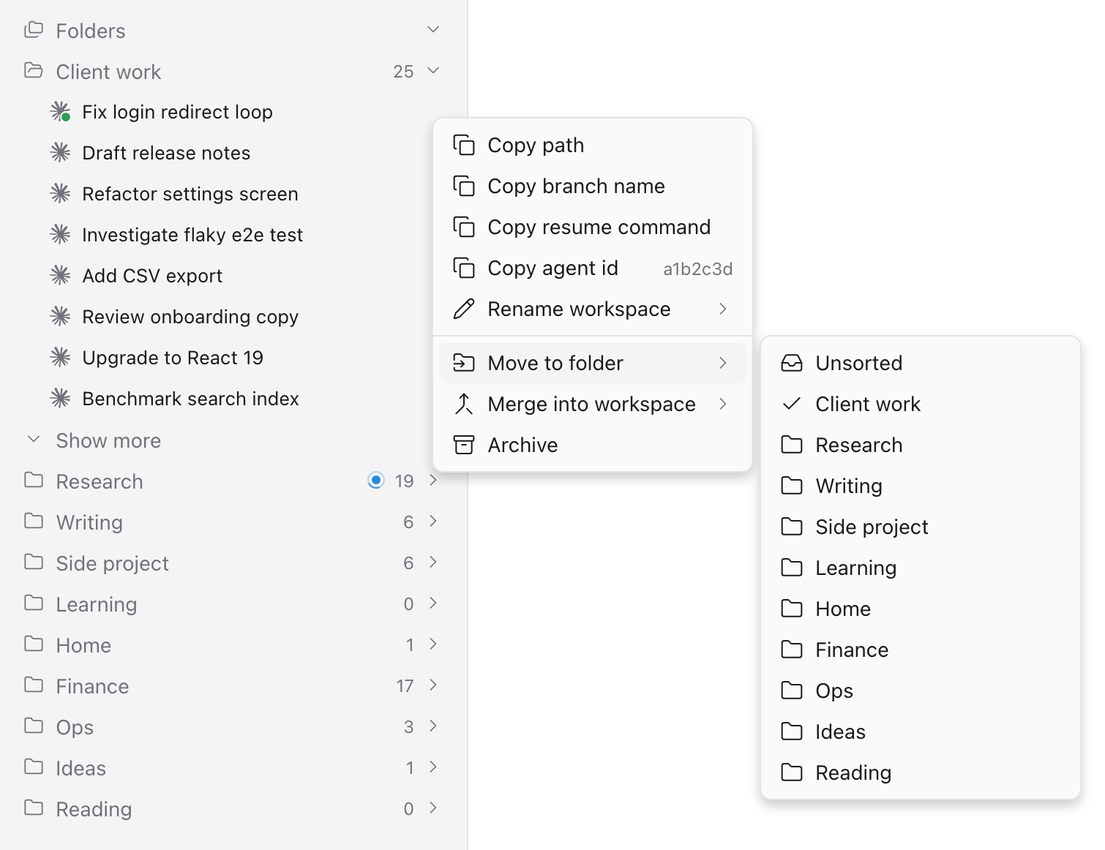
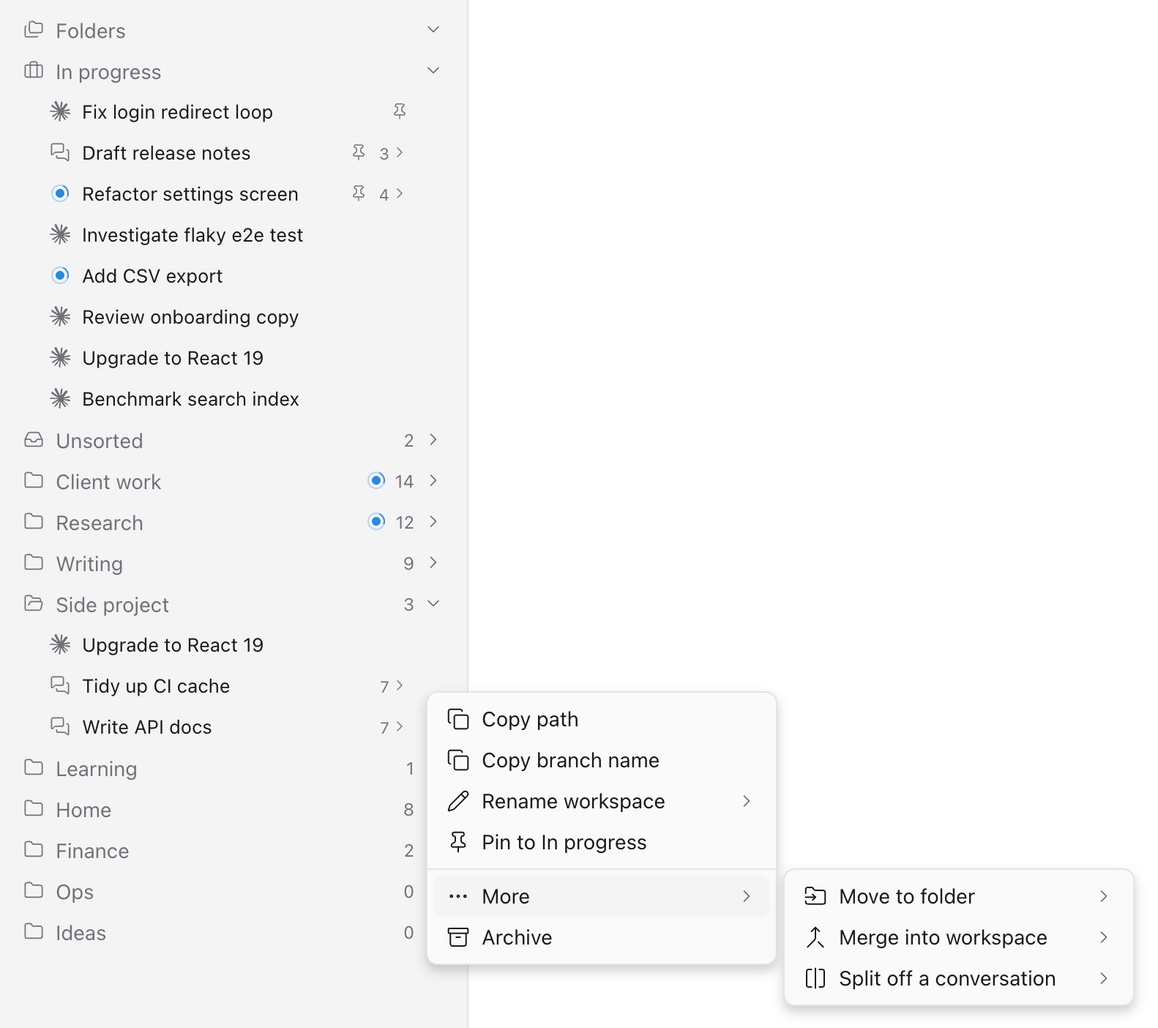
The README opens again with what the plugin does, a few short points and a screenshot, with the details below
The feature list had grown one long bullet at a time; In progress alone ran to
nearly two thousand characters. Now In progress gets its own short point at the
top, the screenshot (made-up names) shows In progress and the More menu, and the
features are grouped under Folders, In progress, Dragging, Menus and the Folders
screen. Merging is described once, in its own section; the two scripts share
one; the settings fields are a table.

Corrected on the way: the settings document is under plugin-settings/paseo-folders,
not an installation ID; besides the suggestions file, the server reads Paseo's
config.json for the daemon's address; pinning and renaming go through the daemon
too. The overview and the manifest follow.

diff --git a/README.md b/README.md
@@ -4,9 +4,10 @@ English | [简体中文](README.zh-CN.md)
 
 A [Paseo](https://paseo.sh) plugin that adds folders to the sidebar, so you can group workspaces by topic, not just by project. It can also merge workspaces and move a conversation to another workspace, which Paseo cannot do yet.
 
-<img src="docs/sidebar.png" width="600" alt="The Folders section at the top of Paseo's sidebar: folders with workspace counts, one folder open, and a workspace's menu showing Move to folder with the list of folders">
+<img src="docs/sidebar.png" width="600" alt="Paseo's sidebar with the Folders section: In progress at the top, folders with workspace counts below it, one folder open, and a workspace's menu with More open on Move to folder, Merge into workspace and Split off a conversation">
 
-- **Folders.** Put workspaces from any project into folders at the top of the sidebar, drag them from one folder to another, and drag them up or down to put them in order. Workspaces you have not filed wait under Unsorted, and **In progress**, above the folders, keeps the ones you are working on one click away.
+- **Folders.** Put workspaces from any project into folders at the top of the sidebar, drag them from one folder to another, and drag them up or down to put them in order. Workspaces you have not filed wait under Unsorted.
+- **In progress.** Above the folders, In progress lists the workspaces you are working on, wherever they are filed: the ones you pinned first, then the ones you wrote in last. Remove one when you are done with it.
 - **Merge and split.** Drag a workspace onto another to merge them: its conversations become tabs there. Drag a single conversation onto another workspace to move it, or onto a folder to give it a workspace of its own. Experimental.
 - **The same folders everywhere.** Folders are stored on your Paseo host, so your desktop and mobile apps show the same ones.
 
@@ -14,18 +15,38 @@ Paseo groups workspaces by project directory. If most of your work runs in the s
 
 ## Features
 
-- A **Folders** section at the top of the sidebar: one row per folder with its workspace count, and **Unsorted** for workspaces in no folder, shown even when empty, first unless you move it. Press a folder to open or close it; several can be open at once. An open folder lists eight workspaces, with **Show more** and **Show less** for the rest. A folder lists its workspaces newest first until you drag one into place; from then on it keeps your order, and workspaces new to it go on top. Rows show Paseo's status in front of the title (running ring, attention and error dots) and, for a single conversation, its provider's mark; a listed conversation shows its own the same way.
-- The workspace Paseo is showing is highlighted, as in Paseo's own list. Native mobile apps cannot read which one that is, so there the highlight marks the workspace last opened from the folders.
-- **In progress**, above the folders, lists the workspaces you are working on, wherever they are filed, so they are one click away. Workspaces pinned in Paseo come first, the latest pin on top; the others follow by your last message in them, newest first, eight in all. A pinned workspace, or one with something to see (a reply you have not read, a question, an error or a conversation still running), stays even past eight. Right-click a workspace and choose **Pin to In progress** or **Unpin from In progress**: this is Paseo's own **Pin to top**, so Paseo's list shows the pin too. Pinning goes through Paseo's internal daemon client, as moves do, so a Paseo update can break it. When you are done with a workspace, right-click it and choose **Remove from In progress**: it stays out, whatever it has to show, until you write in it again or pin it, and one that was pinned is unpinned. No older workspace takes its place: from then on In progress takes in only the workspaces you write in, besides those it lists, so it keeps just what you are working on. Drag In progress into order as you would a folder: drop a workspace on the top or bottom edge of one there to put it just above or below (a line shows where it will land). From then on it keeps your order: a workspace you pin or use comes in on top, and one that only fills a place left empty, at the bottom; to go back to pinned first, then last used, right-click a workspace there and choose **More** › **Reset In progress order**. Your order alone does not keep a workspace listed; pinning does, and a workspace from a folder dropped between the rows of In progress is pinned there. As in a folder, a workspace with several conversations shows how many; press the count and arrow to list them under it. Drop a workspace or a conversation on the middle of a workspace under In progress to merge it there, as on that workspace's row in its folder. Press **In progress** to collapse it.
-- Hover a folder and press **+** (on touch screens, an open folder shows it) to make a new workspace already filed there. It is a local workspace in the project most of that folder's workspaces use, and opens on Paseo's own new-tab screen. Paseo names a workspace after the prompt it was created with; this one starts empty, so once its first conversation has answered, it takes that conversation's title unless you have named it. One you leave empty stays in the folder as **New workspace**, and a day after it was made the plugin archives it, unless it is open, has a terminal, or you have named or pinned it. No files are deleted; to remove it sooner, right-click it and choose **Archive**. For another project or a worktree, use Paseo's **New workspace** and move the result.
-- With a mouse, drag a workspace onto a folder to move it, onto the top or bottom edge of another workspace to put it just above or below that one (a line shows where it will land; dropping it on its own folder puts it at the top), or onto the middle of another workspace to merge it into that one. A workspace with several conversations shows their count with an arrow; click it to list them, then drag one onto another workspace to move it there, or onto a folder to give it a workspace of its own in that folder. While you drag, the target row is outlined and a label under the pointer says what letting go will do. Hold the pointer near the top or bottom of the folders to scroll them, so rows out of view can still take the drop. Moves into another project ask first.
-- Manage folders right in the sidebar: drag a folder up or down with the mouse to put it in order (a line shows where it will land), press the new-folder button on the **Folders** header to add one, and right-click a folder (or press its **⋮**, which touch screens show on open folders) to make a workspace in it, rename it, add a folder below it or delete it. Deleting happens at once and sends its workspaces back to Unsorted.
-- Right-click a workspace, or long-press it on touch screens, for a menu modelled on Paseo's workspace menu: copy path, copy branch name, copy resume command and agent id, rename, **Pin to In progress**, **Remove from In progress** (for a workspace under In progress) and archive. **More** holds the rest: **Move to folder**, **Merge into workspace** and **Split off a conversation**, which dragging does too, and **Reset In progress order**. Paseo keeps a workspace's name apart from its conversations' titles, and a tab shows its conversation's title, so renaming a workspace that holds one conversation renames the conversation too: the tab then shows the same name. This goes through Paseo's internal daemon client, as pinning does.
-- Right-click a listed conversation, long-press it on touch screens, or press its **⋮**, for its workspace's menu, for that conversation alone: copy path, copy branch name, copy resume command and agent id, **Rename conversation** and **Archive conversation**, which is what closing its tab does. Under **More** it moves as dragging it does: **Move to folder** (it gets a workspace of its own in that folder), **Move into workspace** (it becomes a tab there; type to search) and **Move to a new workspace**. Renaming changes the conversation's title, which its tab shows, and leaves the workspace's name alone. Pinning and In progress belong to the whole workspace, so they stay in the workspace's menu.
-- Merging moves a workspace's conversations into another workspace, where they become tabs, and archives the emptied workspace. Splitting moves one conversation into a new workspace next to it. See [Merge and split workspaces](#merge-and-split-workspaces-experimental).
-- A management screen, laid out like Paseo's settings, to create, rename and delete folders, put them in order (press and hold a folder, then drag it), and search every workspace and the conversations inside it. Unsorted can be renamed and moved like a folder, but not deleted.
-- An optional suggestions file, so a script can propose folders and one-line notes per conversation.
-- Folder data lives in Paseo plugin settings on the host, so your desktop and mobile apps share it.
+### Folders
+
+- A **Folders** section at the top of the sidebar, with one row per folder and how many workspaces it holds. Press a folder to open or close it; several can be open at once.
+- An open folder lists eight workspaces, with **Show more** and **Show less** for the rest. It lists them newest first until you drag one into place; from then on it keeps your order, and workspaces new to it go on top.
+- **Unsorted** holds the workspaces in no folder. It is shown even when empty, comes first unless you move it, and is open by default when it has something in it. You can rename it, but not delete it.
+- Rows show Paseo's status in front of the title (running ring, attention and error dots) and, for a single conversation, its provider's mark. The workspace Paseo is showing is highlighted, as in Paseo's own list. Native mobile apps cannot read which one that is, so there the highlight marks the workspace last opened from the folders.
+- Hover a folder and press **+** (on touch screens, an open folder shows it) to make a new workspace already filed there. It is a local workspace in the project most of that folder's workspaces use, and opens on Paseo's own new-tab screen. It starts empty, so Paseo has no prompt to name it after: once its first conversation has answered, it takes that conversation's title, unless you have named it. One you leave empty is archived a day after it was made, unless it is open, has a terminal, or you have named or pinned it; no files are deleted. For another project or a worktree, use Paseo's **New workspace** and move the result.
+- Manage folders right in the sidebar: drag a folder up or down to put it in order, press the new-folder button on the **Folders** header to add one, and right-click a folder (or press its **⋮**) to make a workspace in it, rename it, add a folder below it or delete it. Deleting happens at once and sends its workspaces back to Unsorted.
+
+### In progress
+
+- **In progress**, above the folders, lists the workspaces you are working on, wherever they are filed. Workspaces pinned in Paseo come first, the latest pin on top; the others follow by your last message in them, eight in all. A pinned workspace, or one with something to see (a reply you have not read, a question, an error or a conversation still running), stays even past eight.
+- **Pin to In progress**, in a workspace's menu, is Paseo's own **Pin to top**, so Paseo's list shows the pin too.
+- When you are done with a workspace, choose **Remove from In progress** in its menu. It stays out, whatever it has to show, until you write in it again or pin it; one that was pinned is unpinned. No older workspace takes its place: from then on In progress takes in only the workspaces you write in, besides those it lists, so it keeps just what you are working on.
+- Drag In progress into order as you would a folder; from then on a workspace you pin or write in comes in on top. Your order alone does not keep a workspace listed; pinning does, and a workspace dropped from a folder between the rows of In progress is pinned there. **Reset In progress order** goes back to pinned first, then last used.
+- As in a folder, a workspace with several conversations can list them under it, and dropping a workspace or a conversation on the middle of a row merges it into that workspace. Press **In progress** to collapse it.
+
+### Dragging
+
+- With a mouse, drag a workspace onto a folder to move it there, onto the top or bottom edge of another workspace to put it just above or below that one (a line shows where it will land; dropped on its own folder, it goes to the top), or onto the middle of another workspace to merge it into that one.
+- A workspace with several conversations shows their count with an arrow; click it to list them, then drag one onto another workspace to move it there, or onto a folder to give it a workspace of its own in that folder.
+- While you drag, the target row is outlined and a label under the pointer says what letting go will do. Hold the pointer near the top or bottom of the folders to scroll them, so rows out of view can still take the drop. Moves into another project ask first.
+
+### Menus
+
+- Right-click a workspace, press its **⋮**, or long-press it on touch screens, for a menu modelled on Paseo's workspace menu: copy path, branch name, resume command and agent id (the last two for a workspace with one conversation), **Rename workspace**, **Pin to In progress**, **Remove from In progress** (for a workspace listed there) and **Archive**. **More** holds the rest: **Move to folder**, **Merge into workspace** and **Split off a conversation**, which dragging does too, and, once you have dragged In progress into order, **Reset In progress order**.
+- Paseo keeps a workspace's name apart from its conversations' titles, and a tab shows its conversation's title, so renaming a workspace that holds one conversation renames the conversation too: the tab then shows the same name.
+- A listed conversation has the same menu for itself alone: right-click it, press its **⋮**, or long-press it. **Rename conversation** changes the title its tab shows and leaves the workspace's name alone, and **Archive conversation** does what closing its tab does. Its **More** moves it as dragging does: **Move to folder** (to a workspace of its own in that folder), **Move into workspace** (as a tab there; type to search) and **Move to a new workspace**. Pinning and In progress belong to the whole workspace, so they stay in the workspace's menu.
+
+### Folders screen
+
+Press **Folders** at the top of the sidebar for a screen laid out like Paseo's settings: create, rename and delete folders, put them in order (press and hold a folder, then drag it), set up the [suggestions file](#suggestions-file), and search every workspace and the conversations inside it.
 
 Subagents and archived workspaces are left out.
 
@@ -45,11 +66,29 @@ or, from a local copy:
 paseo plugin install /absolute/path/to/paseo-folders
 ```
 
-Paseo asks you to trust the plugin. Its server part registers the settings document, reads the suggestions file, and moves conversations when you merge or split workspaces.
+Paseo asks you to trust the plugin. Its server part registers the settings document, reads the suggestions file, and asks the Paseo daemon to pin and rename workspaces and to move conversations.
+
+## Merge and split workspaces (experimental)
+
+Paseo cannot yet move a tab from one workspace to another. The plugin does it for idle conversations:
+
+- Drag a workspace onto another workspace, or choose **More** › **Merge into workspace** in its menu (workspaces in the same folder are listed first; type to search the rest). Its conversations become tabs in the other workspace, and the emptied workspace is archived.
+- Open a workspace's conversation list (the count and arrow on its row) and drag one conversation onto another workspace to move just that one, or choose **More** › **Move into workspace** in the conversation's menu.
+- Drag a listed conversation onto a folder to give it a workspace of its own there, or choose **More** › **Move to folder** in its menu. **Move to a new workspace** there (or **Split off a conversation** in the workspace's menu) gives it a new workspace in the same folder.
+
+Moves within one project happen as soon as you let go. A move into another project opens a dialog first, naming both projects, because the conversation's commands and file changes happen in the new project from then on. Afterwards the workspace that received conversations opens, with its conversations listed. A workspace without a title of its own keeps the name it showed when you dropped on it, and a workspace named after a conversation (as a split names it) takes the name of the newest conversation left when that one moves out.
+
+- Within one directory, Paseo archives the conversation and imports its session into the other workspace, reusing the same agent record: the conversation keeps its ID, history, title, mode and model.
+- Into a workspace of another directory (another project), only Claude conversations can move. Claude Code resumes a session by ID from any directory and keeps writing to the transcript where it started, so the history stays; the agent gets a new Paseo ID, and its title, labels, mode, model, thinking option, folder and note are carried over. Before the old record is deleted, a copy is saved under `<Paseo home>/paseo-folders/moves/`. Paseo tells only the connection that deletes a record ([getpaseo/paseo#4870](https://github.com/getpaseo/paseo/issues/4870)), so the old record is archived first: every open Paseo window hears about that and closes the conversation's tab.
+- A conversation that is running or waiting for a permission answer does not move; try again when it has finished.
+- A moved conversation is added as the last tab. The workspaces involved stay in the folders they were in.
+- If an import fails, the conversation is put back where it was.
+
+The moves run in the plugin's server through Paseo's internal daemon client, at `PASEO_WS_URL` or the listen address in Paseo's `config.json`, so a Paseo update can break them. Pinning and renaming go through it too. The [scripts](#scripts-experimental) below make the same moves from a terminal.
 
 ## Suggestions file
 
-Default location: `<Paseo home>/paseo-folders/suggestions.json` (`~/.paseo` unless `PASEO_HOME` is set). You can set another path on the Folders screen.
+Another tool, such as a script that sorts your conversations, can propose folders and one-line notes per conversation in a JSON file. Default location: `<Paseo home>/paseo-folders/suggestions.json` (`~/.paseo` unless `PASEO_HOME` is set). You can set another path on the Folders screen.
 
 ```json
 {
@@ -70,54 +109,49 @@ Default location: `<Paseo home>/paseo-folders/suggestions.json` (`~/.paseo` unle
 
 The plugin imports when the app starts and every ten minutes. An import that changes nothing saves nothing.
 
-To read placements back, a script can read the plugin's settings document on the host: `<Paseo home>/plugin-settings/<installation id>/folders.json`. `values.workspaceAssignments` and `values.workspaceManual` hold the workspaces you placed by hand. `values.autoTitle` lists workspaces made from a folder that are still waiting for their first conversation's title or, while empty, to be archived. `values.removedFromRecent` holds when you removed workspaces from In progress (these fields keep its first name, Recent), `values.recentOrder` the order you dragged In progress into (empty for its own order), and `values.recentHeld` and `values.recentHeldAt` what In progress listed when you last removed a workspace from it, and when. `values.unsortedName` and `values.unsortedAt` hold the name you gave Unsorted (empty for the default) and how many folders come before it. `values.formerFolderNames` maps the old names of folders you renamed to their folder IDs, and `values.deletedFolderNames` lists the names of folders you deleted.
+To read placements back, a script can read the plugin's settings document on the host, `<Paseo home>/plugin-settings/paseo-folders/folders.json`. Under `values`:
 
-## Merge and split workspaces (experimental)
+| Field | Holds |
+| --- | --- |
+| `workspaceAssignments`, `workspaceManual` | The workspaces you placed by hand. |
+| `autoTitle` | Workspaces made from a folder that are still waiting for their first conversation's title or, while empty, to be archived. |
+| `removedFromRecent` | When you removed workspaces from In progress. The fields about In progress keep its first name, Recent. |
+| `recentOrder` | The order you dragged In progress into; empty for its own order. |
+| `recentHeld`, `recentHeldAt` | What In progress listed when you last removed a workspace from it, and when. |
+| `unsortedName`, `unsortedAt` | The name you gave Unsorted (empty for the default) and how many folders come before it. |
+| `formerFolderNames` | The old names of folders you renamed, mapped to their folder IDs. |
+| `deletedFolderNames` | The names of folders you deleted. |
 
-Paseo cannot yet move a tab from one workspace to another. The plugin does it for idle conversations:
+## Scripts (experimental)
 
-- Drag a workspace onto another workspace, or right-click it and choose **More** › **Merge into workspace** (workspaces in the same folder are listed first; type to search the rest).
-- Open a workspace's conversation list (the count and arrow on its row) and drag one conversation onto another workspace to move just that one, or right-click it and choose **More** › **Move into workspace**.
-- Drag a listed conversation onto a folder to give it a workspace of its own there, or right-click it and choose **More** › **Move to folder**. **Move to a new workspace** there (or **Split off a conversation** under its workspace's **More**) keeps it in the same folder.
+Two scripts move an idle conversation from a terminal, one at a time. They use Paseo's internal daemon client, the `paseo` CLI from `PATH` (or `PASEO_CLI`), and the daemon at `PASEO_WS_URL` (default `ws://127.0.0.1:6767/ws`).
 
-Moves within one project happen as soon as you let go. A move into another project opens a dialog first, naming both projects, because the conversation's commands and file changes happen in the new project from then on. Afterwards the workspace that received conversations opens, with its conversations listed. A workspace without a title of its own keeps the name it showed when you dropped on it, and a workspace named after a conversation (as a split names it) takes the name of the newest conversation left when that one moves out.
+### Split a conversation into its own workspace
 
-- Within one directory, Paseo archives the conversation and imports its session into the other workspace, reusing the same agent record: the conversation keeps its ID, history, title, mode and model.
-- Into a workspace of another directory (another project), only Claude conversations can move. Claude Code resumes a session by ID from any directory and keeps writing to the transcript where it started, so the history stays; the agent gets a new Paseo ID, and its title, labels, mode, model, thinking option, folder and note are carried over. Before the old record is deleted, a copy is saved under `<Paseo home>/paseo-folders/moves/`. Paseo tells only the connection that deletes a record ([getpaseo/paseo#4870](https://github.com/getpaseo/paseo/issues/4870)), so the old record is archived first: every open Paseo window hears about that and closes the conversation's tab.
-- A conversation that is running or waiting for a permission answer does not move; try again when it has finished.
-- A moved conversation is added as the last tab. The workspaces involved stay in the folders they were in.
-- If an import fails, the conversation is put back where it was.
-
-The moves run in the plugin's server through Paseo's internal daemon client, at `PASEO_WS_URL` or the listen address in Paseo's `config.json`, so a Paseo update can break them. The scripts below do the same from a terminal.
-
-## Split a conversation into its own workspace (experimental)
-
-Paseo cannot yet move a tab to another workspace. `scripts/split-agent.mjs` does it for an idle agent: it creates a local workspace in the agent's directory, archives the agent, and imports its provider session into the new workspace. Paseo reuses the same agent record, so the conversation, its ID and its history stay intact.
+`scripts/split-agent.mjs` creates a local workspace in the agent's directory, archives the agent, and imports its provider session into the new workspace. Paseo reuses the same agent record, so the conversation, its ID and its history stay intact. If the import fails, the agent stays archived and can be unarchived from History.
 
 ```bash
 node scripts/split-agent.mjs <agent-id> "<new workspace title>" --dry-run   # show what would move
 node scripts/split-agent.mjs <agent-id> "<new workspace title>"
 ```
 
-It uses Paseo's internal daemon client, the `paseo` CLI from `PATH` (or `PASEO_CLI`), and the daemon at `PASEO_WS_URL` (default `ws://127.0.0.1:6767/ws`). If the import fails, the agent stays archived and can be unarchived from History.
+### Move a conversation to another project
 
-## Move a conversation to another project (experimental)
-
-Paseo cannot change the directory a conversation runs in, so it cannot move one to another project. `scripts/move-agent.mjs` does it for an idle Claude agent: it creates a local workspace in the target directory, archives and deletes the agent's Paseo record and imports its Claude session there. Claude Code resumes a session by ID from any directory and keeps writing to the transcript where the session started, so the history stays and the conversation can go on. The agent gets a new Paseo ID; its title, labels, mode, model and thinking option are carried over, and so are its folder and note in Folders. If nothing else is left in the old workspace, it is archived and the new one takes its title and pin.
+Paseo cannot change the directory a conversation runs in, so it cannot move one to another project. `scripts/move-agent.mjs` does it for a Claude agent: it creates a local workspace in the target directory, archives and deletes the agent's Paseo record and imports its Claude session there. Claude Code resumes a session by ID from any directory and keeps writing to the transcript where the session started, so the history stays and the conversation can go on. The agent gets a new Paseo ID; its title, labels, mode, model and thinking option are carried over, and so are its folder and note in Folders. If nothing else is left in the old workspace, it is archived and the new one takes its title and pin.
 
 ```bash
 node scripts/move-agent.mjs <agent-id> <target-directory> --dry-run   # show what would move
 node scripts/move-agent.mjs <agent-id> <target-directory>
 ```
 
-Before deleting anything, the script saves the agent as Paseo returned it under `<Paseo home>/paseo-folders/moves/`. If the import fails, it imports the session back into the old workspace. As in the sidebar, archiving the record before deleting it makes open Paseo windows close the conversation's tab. One agent at a time: an agent that shares a workspace with others gets a workspace of its own. Loading the session can make Claude Code append its own bookkeeping lines to the transcript, and, if the session ended with background tasks still running, a notice that they stopped; no turn is run.
+Before deleting anything, the script saves the agent as Paseo returned it under `<Paseo home>/paseo-folders/moves/`. If the import fails, it imports the session back into the old workspace. As in the sidebar, archiving the record before deleting it makes open Paseo windows close the conversation's tab. An agent that shares a workspace with others gets a workspace of its own. Loading the session can make Claude Code append its own bookkeeping lines to the transcript, and, if the session ended with background tasks still running, a notice that they stopped; no turn is run.
 
-## Privacy
+## Data and privacy
 
-- No telemetry and no network requests of its own.
-- It reads only the suggestions file at the configured path.
-- To merge and split workspaces, its server connects to the Paseo daemon on your machine and writes a copy of each conversation that changes directories under `<Paseo home>/paseo-folders/moves/`.
-- Nothing is uploaded; folder data stays in Paseo's settings storage on your host.
+- No telemetry and no network requests of its own; nothing is uploaded.
+- Folder names, placements and notes are stored as Paseo plugin settings on your host, so every app connected to it shows the same folders. Removing the plugin deletes them.
+- Besides Paseo's `config.json`, for the daemon's address, it reads only the suggestions file at the configured path.
+- To pin, rename, merge and split, its server connects to the Paseo daemon on your machine. Before a conversation moves to another project, its Paseo record is saved under `<Paseo home>/paseo-folders/moves/`.
 
 ## Development
 

diff --git a/OVERVIEW.md b/OVERVIEW.md
@@ -1,20 +1,22 @@
-Folders lets you sort your Paseo workspaces into folders, merge workspaces, and move a conversation from one workspace to another. A Folders section at the top of the sidebar lists each folder with how many workspaces it holds. Open a folder to see its workspaces, newest first, with Paseo's own status indicators; Show more lists the rest. Press a workspace to open it. The workspace Paseo is showing is highlighted, as in its own list.
+Folders lets you sort your Paseo workspaces into folders, keeps the ones you are working on at the top, and merges workspaces or moves a conversation from one workspace to another, which Paseo cannot do yet.
 
-In progress, above the folders, lists the workspaces you are working on, wherever they are filed: those pinned in Paseo first, then the others by your last message, eight in all. One with a reply you have not read, a question, an error or a conversation still running stays however long ago you used it. Right-click a workspace and choose Pin to In progress to keep it there (this is Paseo's own Pin to top), or Remove from In progress when you are done with it: no older workspace takes its place, and it comes back when you write in it again. Drag In progress into order as you would a folder; Reset In progress order, under More in the same menu, goes back to pinned first, then last used. A workspace there with several conversations lists them, as in a folder.
+A Folders section at the top of the sidebar lists each folder with how many workspaces it holds. Open a folder to see its workspaces, newest first, with Paseo's own status indicators; Show more lists the rest. Press a workspace to open it. The workspace Paseo is showing is highlighted, as in its own list. Workspaces that are in no folder appear under Unsorted, which is open by default when it has anything in it. You can rename Unsorted and move it among the folders; it cannot be deleted.
+
+In progress, above the folders, lists the workspaces you are working on, wherever they are filed: those pinned in Paseo first, then the others by your last message, eight in all. One with a reply you have not read, a question, an error or a conversation still running stays however long ago you used it. Pin to In progress, in a workspace's menu, is Paseo's own Pin to top. Remove from In progress takes a workspace out when you are done with it: no older workspace takes its place, and it comes back when you write in it again. Drag In progress into order as you would a folder; Reset In progress order, under More in the menu, goes back to pinned first, then last used. A workspace there with several conversations lists them, as in a folder.
+
+To move a workspace, drag it onto another folder with the mouse, or right-click it (long-press on touch screens) and choose More, then Move to folder. Drop it on the top or bottom edge of another workspace to put it just above or below; a line shows where it will land, and a label under the pointer says what letting go will do. Folders open and close one by one, so several can be open at once; while you drag, holding the pointer near the top or bottom of the folders scrolls them, so rows out of view can still take the drop.
 
 Hover a folder and press + to make a new workspace already in that folder. It opens on Paseo's new-tab screen and, once its first conversation has answered, takes that conversation's title. One left empty is archived a day after it was made, unless it is open, has a terminal, or you named or pinned it; no files are deleted.
 
-To move a workspace, drag it onto another folder with the mouse, or right-click it (long-press on touch screens) and choose More, then Move to folder. The same menu copies the path, branch, resume command and agent id, renames, pins to In progress or removes from it, and archives. Renaming a workspace that holds one conversation renames the conversation too, so its tab shows the same name. Folders open and close one by one, so several can be open at once; while you drag, holding the pointer near the top or bottom of the folders scrolls them, so rows out of view can still take the drop.
+To put conversations together, drag a workspace onto another workspace, or choose More, then Merge into workspace from its menu: its conversations become tabs in the other workspace, and the emptied one is archived. To take one out, click the count beside a workspace holding several to list its conversations, then drag one onto another workspace, or onto a folder to give it a workspace of its own there. Moves into another project ask first. Conversations keep their history; a running one waits until it has finished. Conversations from another project can join only if they are Claude conversations. This uses Paseo internals and is experimental.
 
-To put conversations together, drag a workspace onto another workspace, or choose More, then Merge into workspace from its menu: its conversations become tabs in the other workspace, and the emptied one is archived. To take one out, click the count beside a workspace holding several to list its conversations, then drag one onto another workspace, or onto a folder to give it a workspace of its own there; Split off a conversation under More in the menu does the same. Right-click a listed conversation, or press its ⋮ button, for its workspace's menu, for that conversation alone: copy its path or ids, rename it or archive it, and under More, move it to a folder, into another workspace or to a new one. A label under the pointer says what letting go will do. Moves into another project ask first. Conversations keep their history; a running one waits until it has finished. Conversations from another project can join only if they are Claude conversations. This uses Paseo internals and is experimental.
+A workspace's menu, modelled on Paseo's, copies the path, branch, resume command and agent id, renames the workspace, pins it to In progress or removes it from there, and archives it; its More holds Move to folder, Merge into workspace, Split off a conversation and Reset In progress order. Renaming a workspace that holds one conversation renames the conversation too, so its tab shows the same name. Right-click a listed conversation, or press its ⋮ button, for the same menu for that conversation alone: copy its path or ids, rename it or archive it, and under More, move it to a folder, into another workspace or to a new one.
 
-Workspaces that are in no folder appear under Unsorted, which opens by default when it has anything in it. You can rename Unsorted and move it among the folders; it cannot be deleted.
-
-In the sidebar, drag a folder up or down with the mouse to put it in order; a line shows where it will go. Press the new-folder button on the Folders header to add a folder, and right-click a folder, or press its More button, to make a workspace in it, rename it, add a folder below it or delete it. Open Folders from the sidebar to do the same on touch screens, where you press and hold a folder and drag it, and to search across every workspace and the conversations inside it. Deleting a folder moves its workspaces back to Unsorted; nothing is archived or deleted in Paseo.
+In the sidebar, drag a folder up or down with the mouse to put it in order; a line shows where it will go. Press the new-folder button on the Folders header to add a folder, and right-click a folder, or press its ⋮ button, to make a workspace in it, rename it, add a folder below it or delete it. Press Folders itself to open the Folders screen, where you can do the same on touch screens, pressing and holding a folder to drag it, and search across every workspace and the conversations inside it. Deleting a folder moves its workspaces back to Unsorted; nothing is archived or deleted in Paseo.
 
 ## Suggestions file
 
-Another tool, such as a script that classifies your conversations, can propose folders by writing a JSON file. By default the plugin reads `<Paseo home>/paseo-folders/suggestions.json`; you can set a different path in the Folders screen. It imports when the app starts and every ten minutes, and you can import by hand.
+Another tool, such as a script that sorts your conversations, can propose folders by writing a JSON file. By default the plugin reads `<Paseo home>/paseo-folders/suggestions.json`; you can set a different path on the Folders screen. It imports when the app starts and every ten minutes, and you can import by hand.
 
 ```json
 {
@@ -30,4 +32,4 @@ Suggestions are per conversation. A workspace you have not placed yourself goes 
 
 ## Data and privacy
 
-Folder names, placements and notes are stored as Paseo plugin settings on the host, so every app connected to that host sees the same folders. Removing the plugin deletes them. The plugin reads the suggestions file and lists agents and workspaces through Paseo. To merge and split workspaces it connects to the Paseo daemon on the host, and it saves a copy of each conversation that moves to another project under `<Paseo home>/paseo-folders/moves/`. It makes no other network requests.
+Folder names, placements and notes are stored as Paseo plugin settings on the host, so every app connected to that host sees the same folders. Removing the plugin deletes them. The plugin reads the suggestions file and lists agents and workspaces through Paseo. To pin, rename, merge and split workspaces it connects to the Paseo daemon on the host, and it saves the Paseo record of each conversation that moves to another project under `<Paseo home>/paseo-folders/moves/`. It makes no other network requests.
